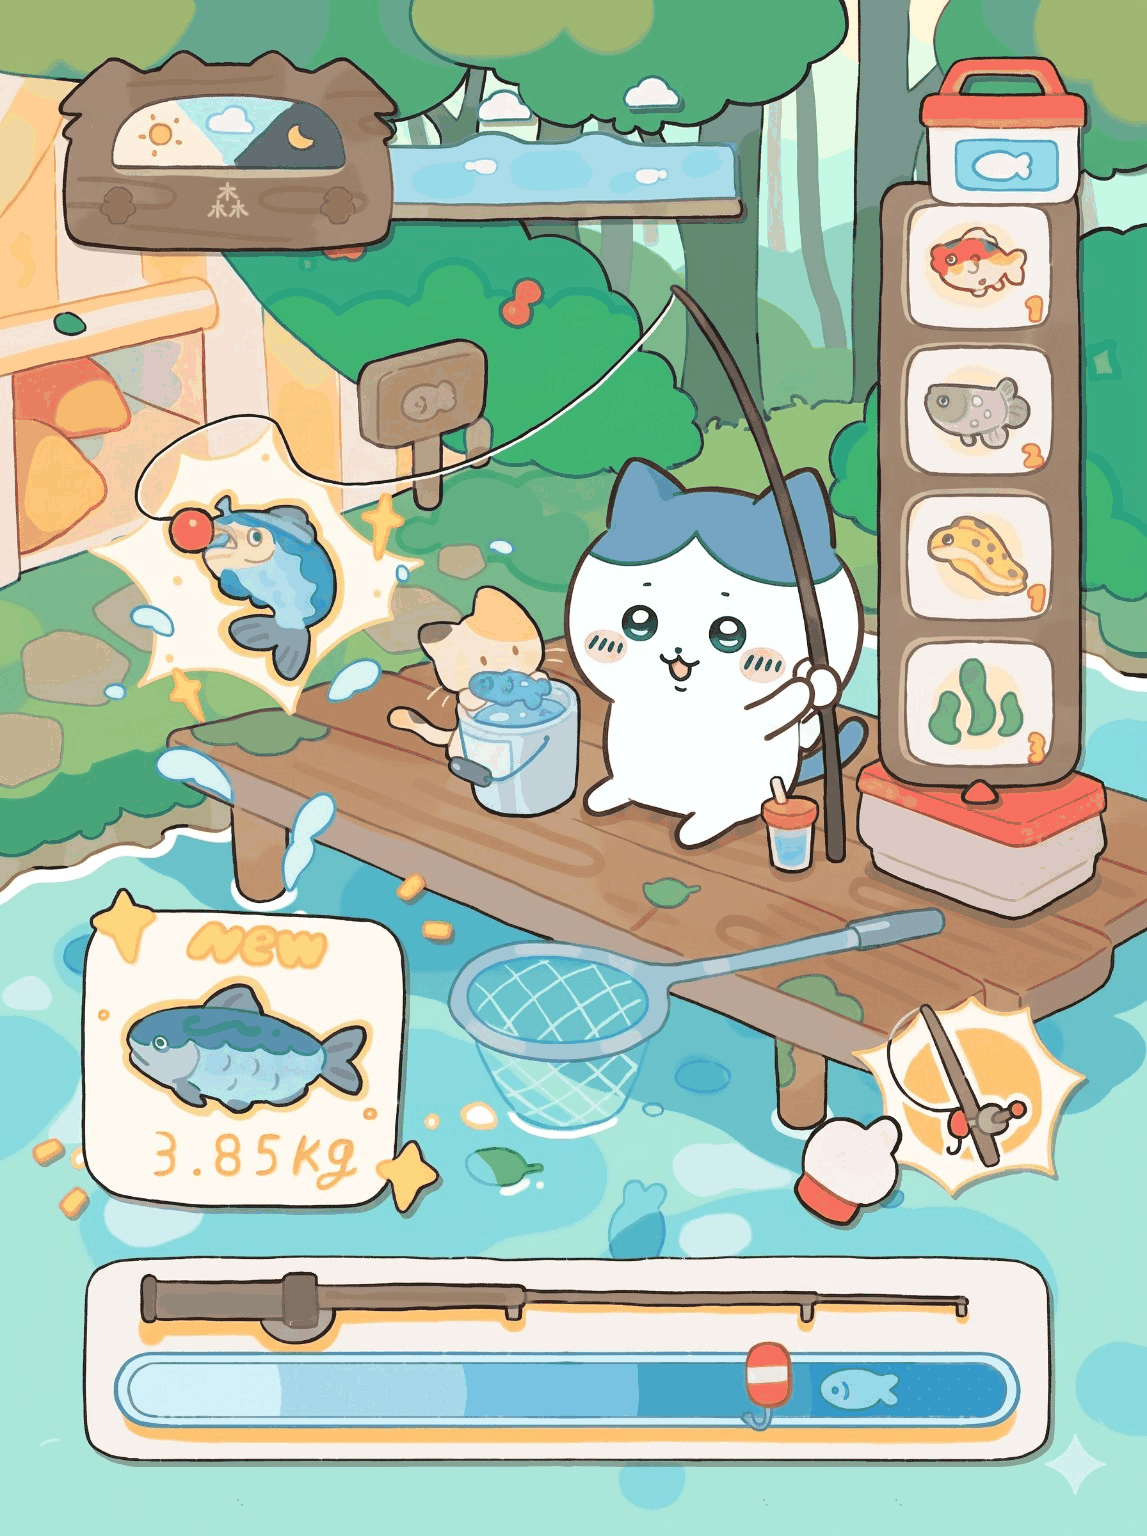
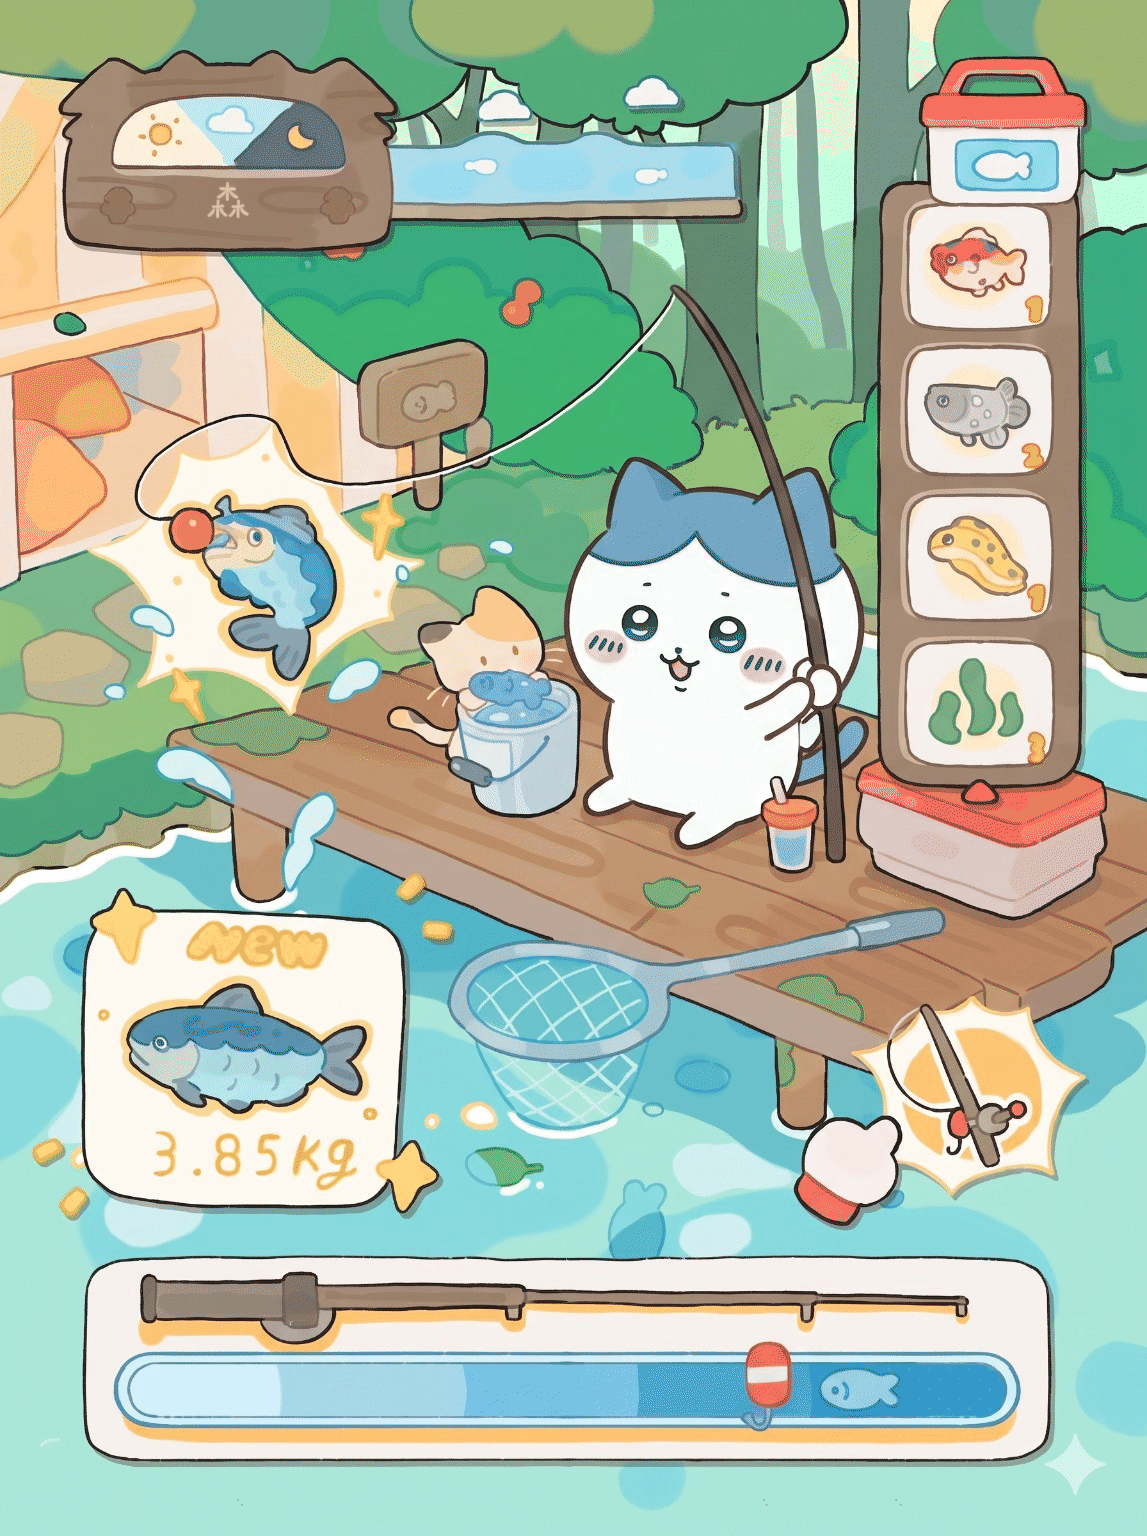
Keep touch overlays invisible and polish fishing artwork gradients

diff --git a/app/src/main/assets/canvas-minigames.css b/app/src/main/assets/canvas-minigames.css
@@ -27,9 +27,9 @@
  position:absolute;top:84%;height:10.7%;left:11.6%;width:76.7%;
  display:grid;grid-template-columns:repeat(5,minmax(0,1fr));gap:2.1%;
 }
-.wv-canvas-panel #room-drawer button,
-.wv-canvas-panel #room-drawer-toggle{
- min-height:0;padding:0;border:0;background:transparent;pointer-events:auto;
+#wv-solo-view #room-drawer button,
+#wv-solo-view #room-drawer-toggle{
+ min-height:0;padding:0;border:0;background:transparent;pointer-events:auto;-webkit-tap-highlight-color:transparent;
 }
 .wv-canvas-panel #room-drawer button:disabled{pointer-events:none}
 #room-drawer [data-turn],#room-drawer [data-room-close],#room-drawer-toggle{position:absolute}
@@ -44,10 +44,10 @@
 .wv-canvas-stage{position:relative;display:block;width:100%;max-width:600px;margin:0 auto}
 .wv-room-drag-targets{position:absolute;inset:0;z-index:0;pointer-events:none}
 .wv-room-drag-targets[hidden]{display:none!important}
-.wv-canvas-panel .wv-room-drag-handle{
+#wv-solo-view .wv-room-drag-handle{
  position:absolute;transform:translate(-50%,-50%);width:13%;height:8%;
  min-height:0;padding:0;border:0;border-radius:50%;background:transparent;
- touch-action:none;pointer-events:auto;cursor:grab;
+ touch-action:none;pointer-events:auto;cursor:grab;-webkit-tap-highlight-color:transparent;
 }
 .wv-canvas-panel .wv-room-drag-handle:active{cursor:grabbing}
 .wv-canvas-panel .wv-room-drag-handle:focus-visible{

diff --git a/app/src/main/assets/canvas-minigames.js b/app/src/main/assets/canvas-minigames.js
@@ -372,8 +372,11 @@
    const zoneX=x+w*f.zone[0],zoneWidth=w*(f.zone[1]-f.zone[0]);
    this.box(zoneX,y,zoneWidth,h,11,catching?'#36917c':'#217999',INK,0);
    const art=this.sprites.bg_fishing,scaleX=art.naturalWidth/ART_W,scaleY=art.naturalHeight/ART_H;
-   c.drawImage(art,822*scaleX,1367*scaleY,81*scaleX,46*scaleY,
-    zoneX+(zoneWidth-81)/2,y+(h-46)/2,81,46);
+   c.save();
+   c.translate(zoneX+(zoneWidth-81)/2,y+(h-46)/2);
+   c.clip(new Path2D('M1 23 Q4 10 24 6 Q47 0 61 13 Q79 1 80 11 Q80 19 72 26 Q82 32 78 40 Q75 45 61 35 Q45 47 22 44 Q6 40 1 23 Z'));
+   c.drawImage(art,822*scaleX,1367*scaleY,81*scaleX,46*scaleY,0,0,81,46);
+   c.restore();
    const bobberX=x+w*f.pos;
    this.box(bobberX-21,y-17,42,65,21,'#ed745e','#a6523c',4);
    this.box(bobberX-19,y+6,38,13,4,'#fff4df',INK,0);
@@ -466,7 +469,7 @@
     const items=room.unlocked.slice(this.inventoryPage*5,this.inventoryPage*5+5);
     for(let i=0;i<ROOM_CARD_X.length;i++){
      const x=ROOM_CARD_X[i],item=items[i];
-     if(this.inventoryPage>0){
+     if(this.inventoryPage>0||(i===0&&this.selectedFurniture!=='bed')){
       this.box(x,1290,160,164,24,item?'#fff7ec':'#c59a79','#795646',4);
       if(item){
        const art=this.roomArt[item.id]||this.sprites['furniture_'+item.id];
